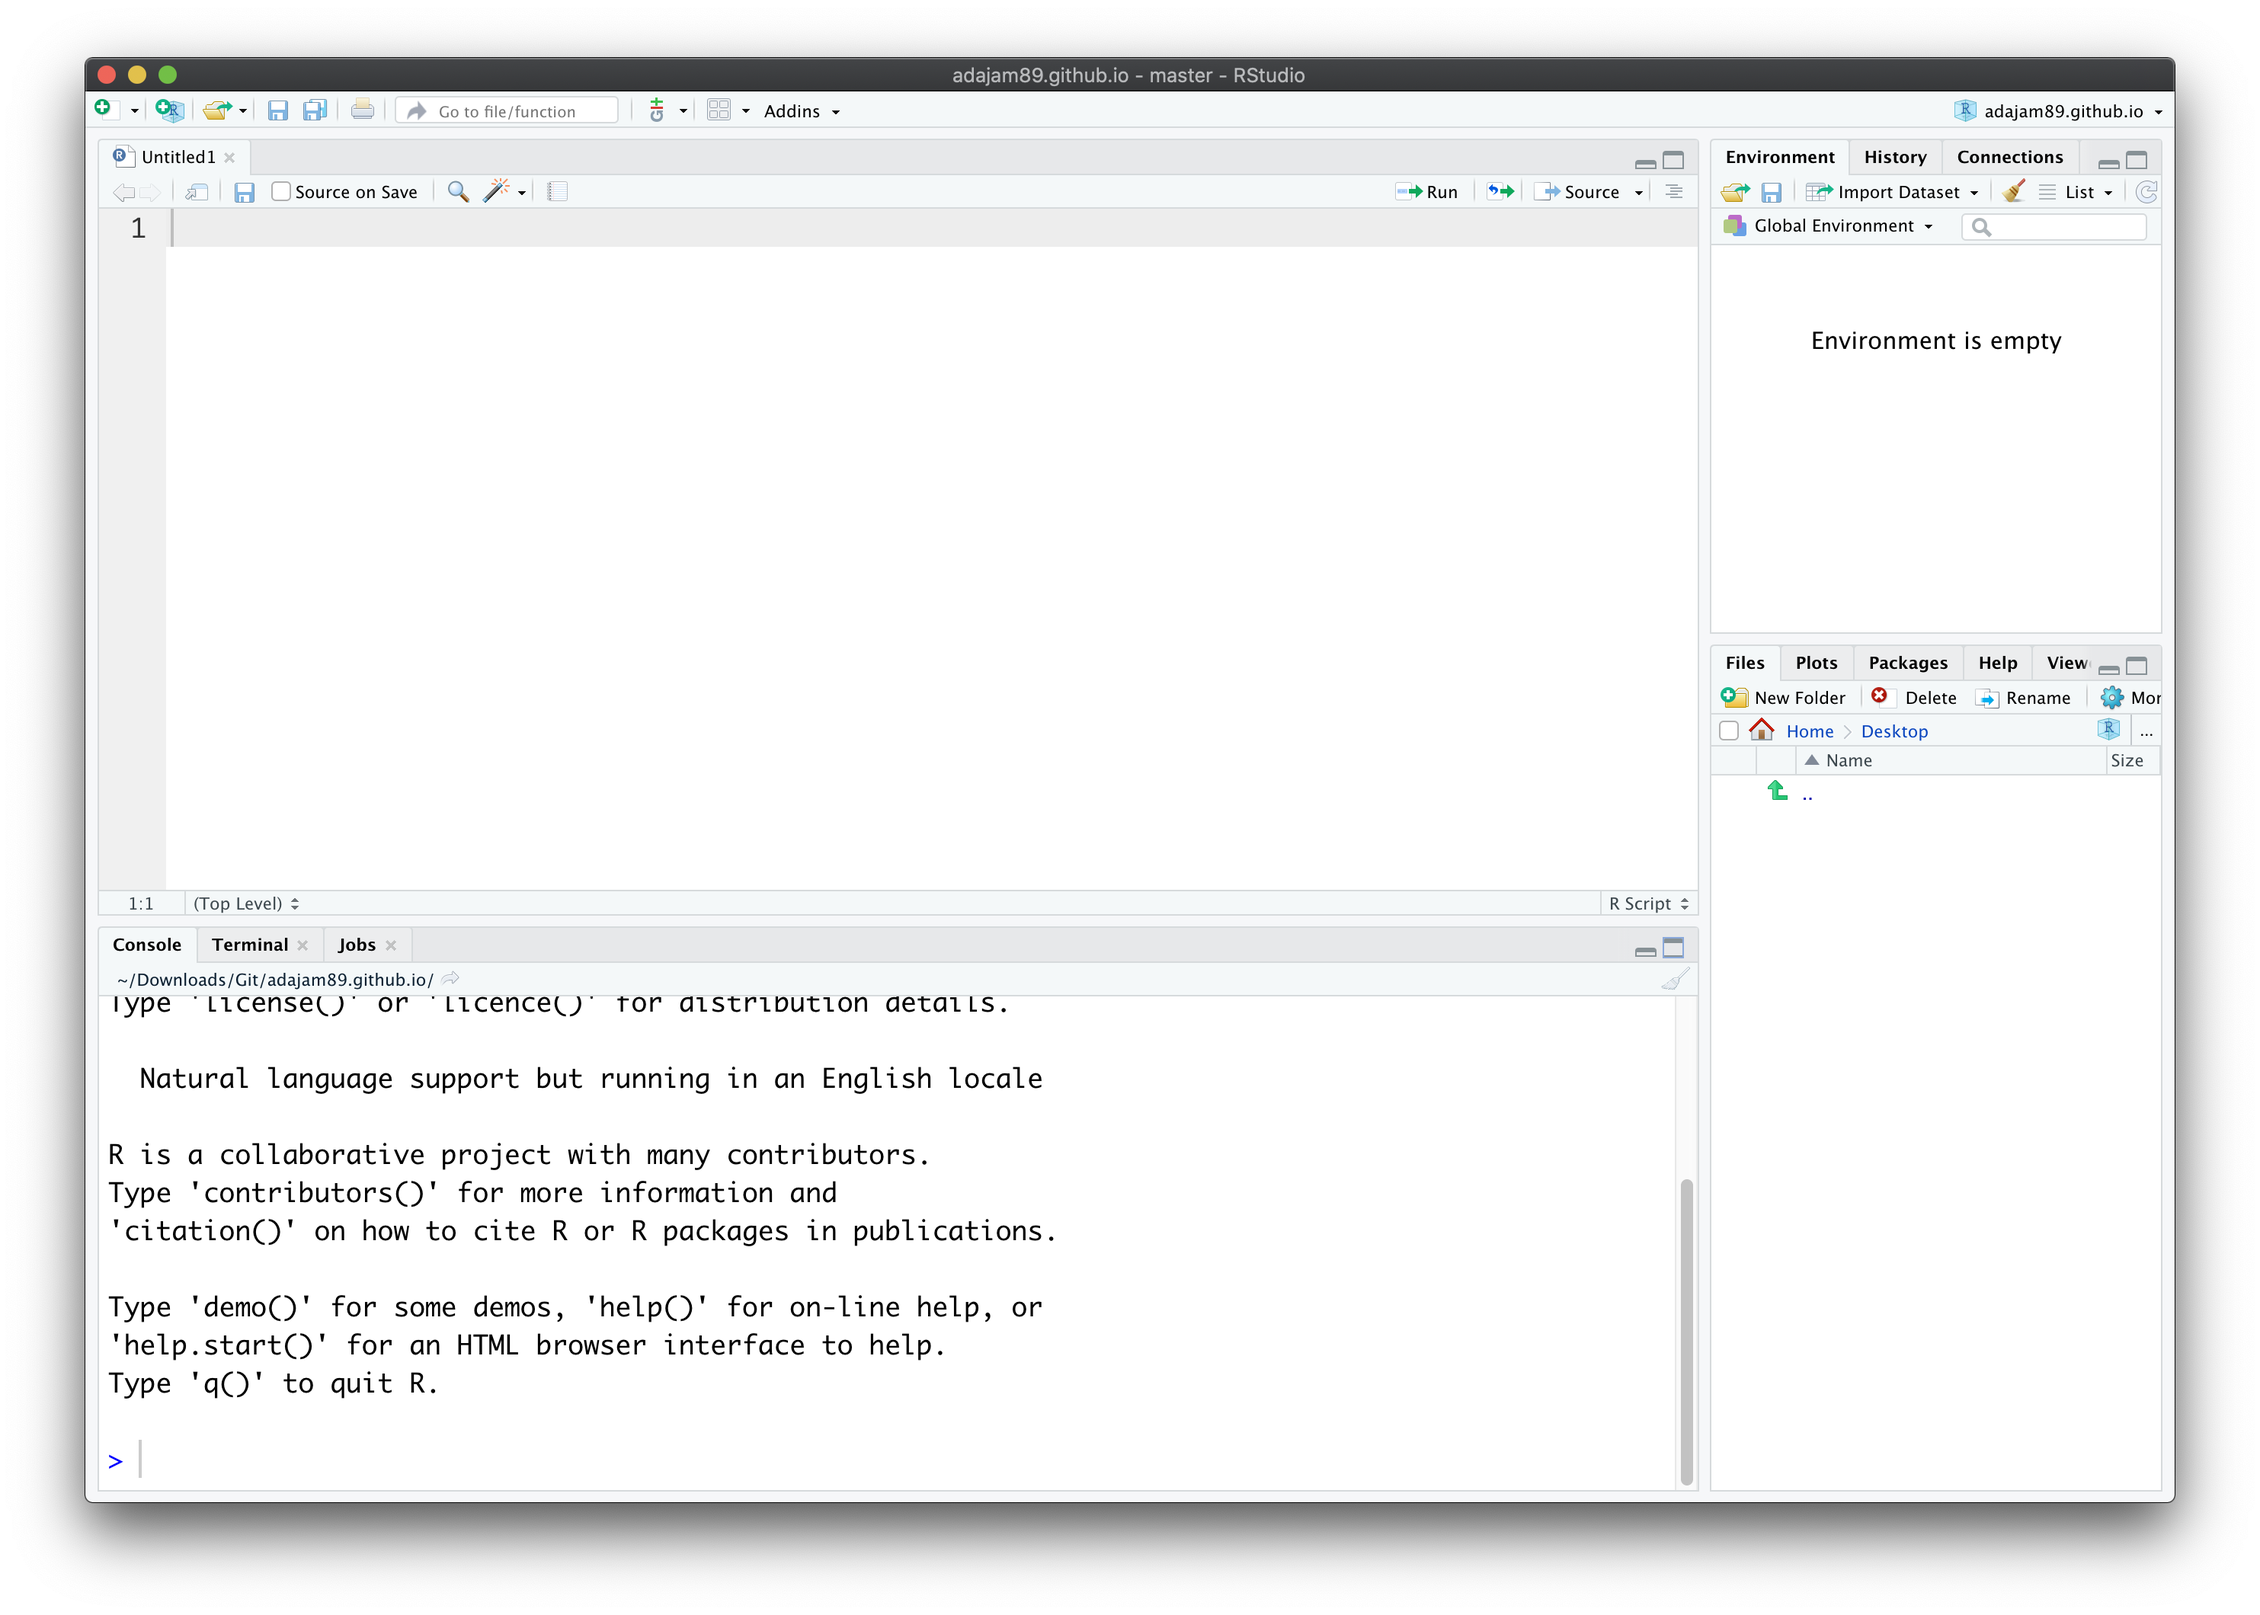
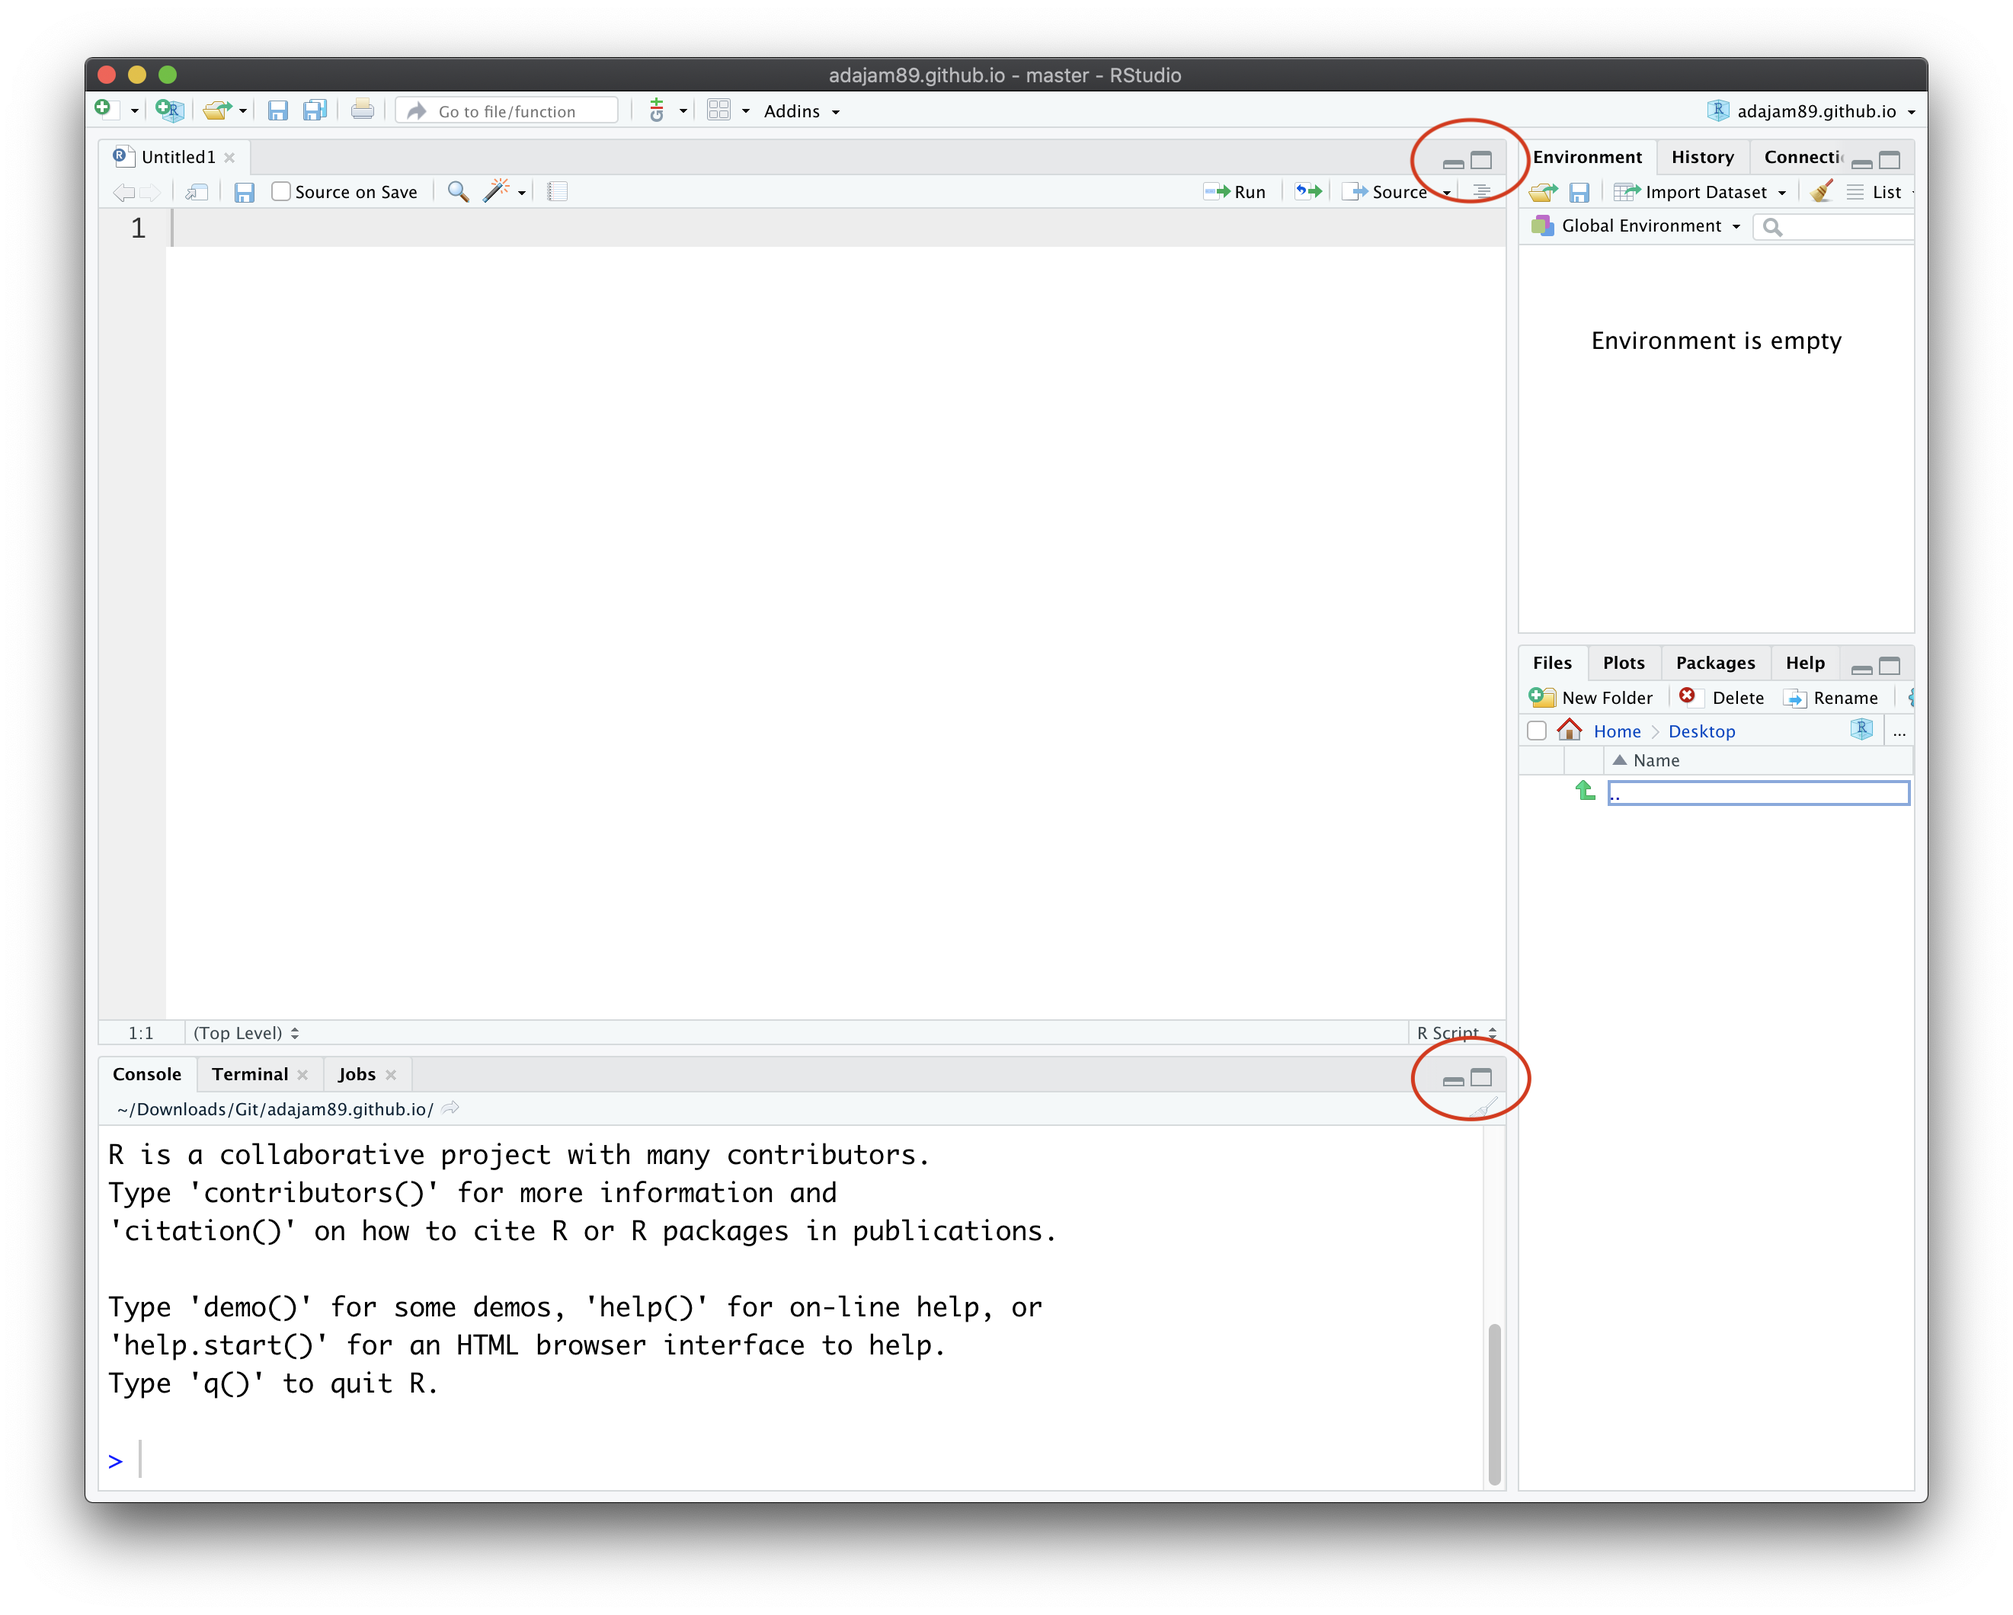
1102

diff --git a/get_started.html b/get_started.html
@@ -152,9 +152,9 @@
 
 <img src="images/get_started_8.png" alt="Image" class="screenshot-no-border"><br><br><br>
 
+<p>The bigger pane on the left is called the "Source" window - this is where you'll write your code. The bottom one is the "Console" - this is where your code is read and carried out. A really quick excercise to demonstrate what these windows do, is to try writing a simple math sum in your Source window. When you press the "Run" button, your code is evaluated and the result displayed in the Console window:</p>
 
-
-
+<img src="images/get_started_9.png" alt="Image" class="screenshot-no-border"><br><br><br>
                                           <div class="pt-5">
                                           <div class="section-title">
                                           </div>

diff --git a/css/style.css b/css/style.css
@@ -1194,6 +1194,7 @@ body {
   max-width: 100%;
   max-height: 100%;
   height: auto;
+  padding: 1px 1px 0;
 }
 
                                          .post-entry-1, .post-entry-2 {                                                                             font-size: .9rem;
